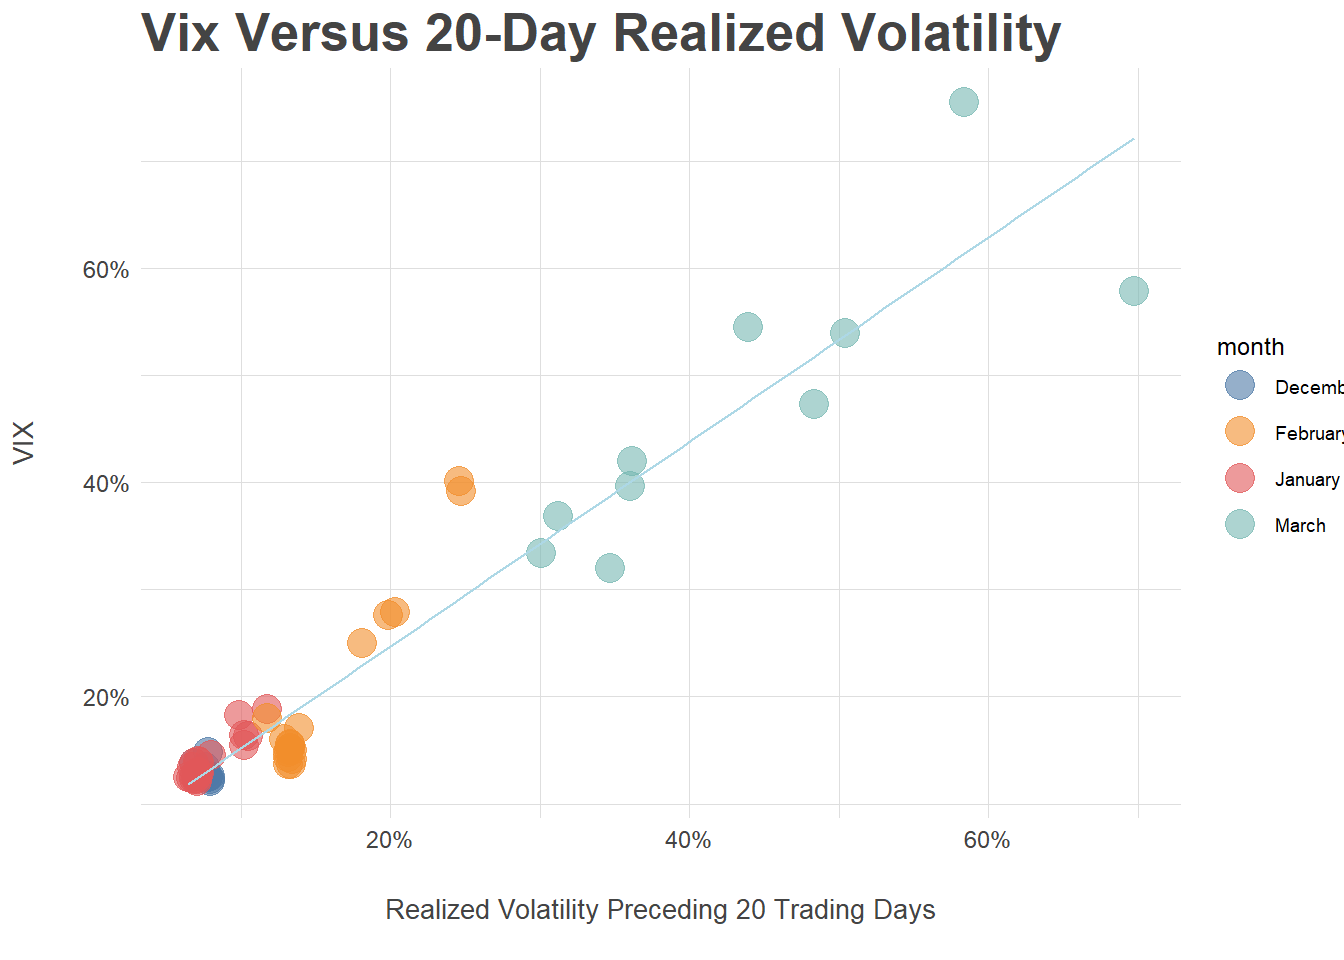
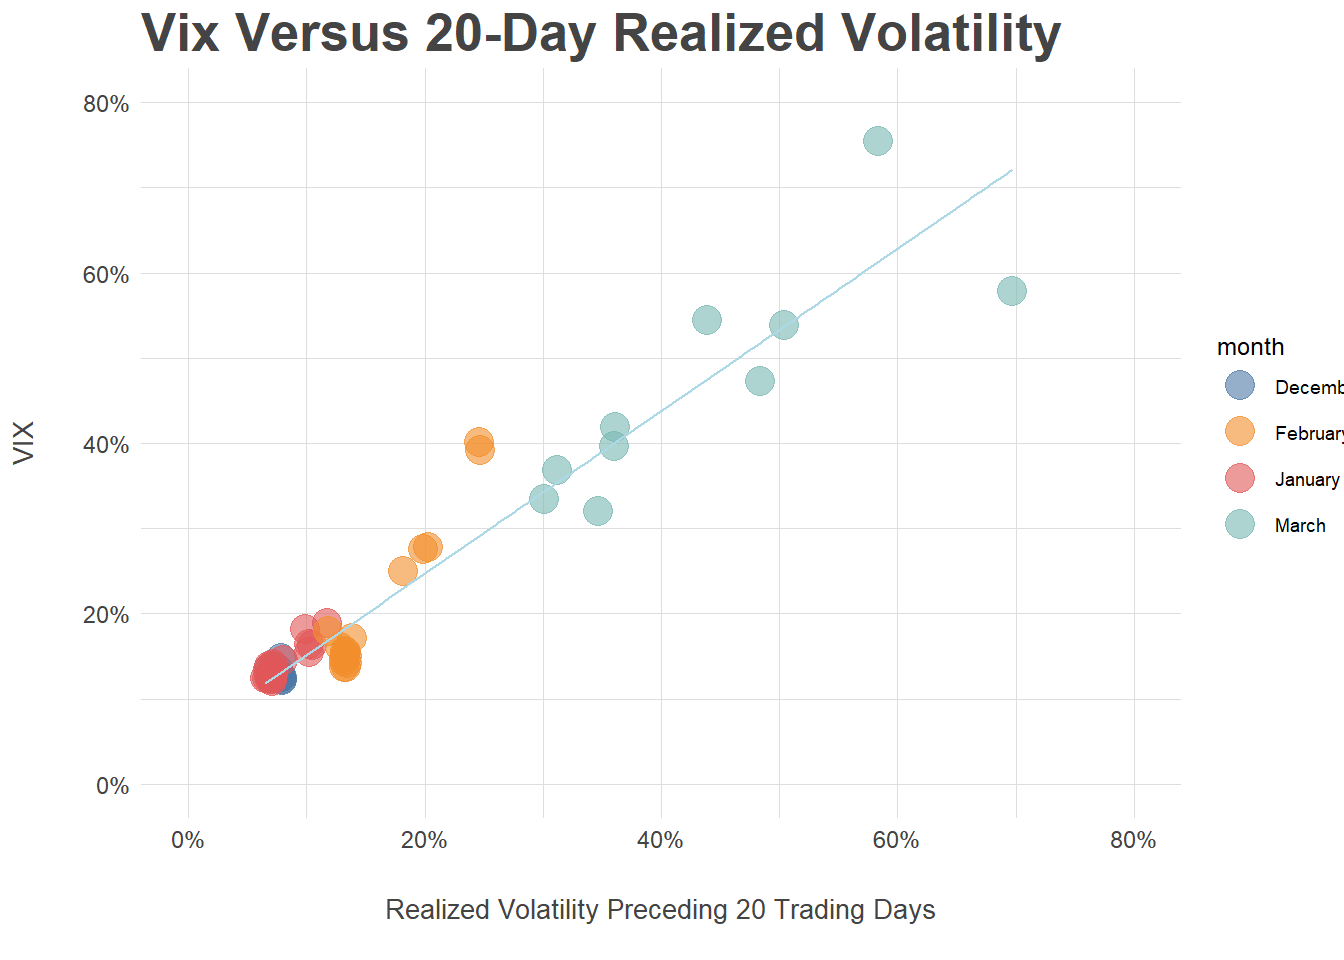
new

diff --git a/public/2020-03-16-test2/index.html b/public/2020-03-16-test2/index.html
@@ -311,15 +311,9 @@ prices_tq = symbols %&gt;%
   geom_point(colour = &quot;#f88379&quot;, alpha = 0.2) +
   geom_smooth(method = &#39;lm&#39;, se = FALSE, color = &quot;light blue&quot;, size = .5) +
   labs(title = &quot;Vix Versus 20-Day Realized Volatility&quot;, x= &quot;Realized Volatility Preceding 20 Trading Days&quot;, y= &quot;VIX&quot;) +
-  ylim(0,80) +
-  xlim(0,80) +
-  scale_y_continuous(labels = function(x){ paste0(x, &quot;%&quot;) }) +
-  scale_x_continuous(labels = function(x){ paste0(x, &quot;%&quot;) }) +
+  scale_y_continuous(limits = c(0,80),labels = function(x){ paste0(x, &quot;%&quot;) }) +
+  scale_x_continuous(limits = c(0,80), labels = function(x){ paste0(x, &quot;%&quot;) }) +
   a_plex_theme() </code></pre>
-<pre><code>## Scale for &#39;y&#39; is already present. Adding another scale for &#39;y&#39;, which will
-## replace the existing scale.</code></pre>
-<pre><code>## Scale for &#39;x&#39; is already present. Adding another scale for &#39;x&#39;, which will
-## replace the existing scale.</code></pre>
 <pre><code>## `geom_smooth()` using formula &#39;y ~ x&#39;</code></pre>
 <p><img src="/post/2020-03-16-test2_files/figure-html/unnamed-chunk-5-1.png" width="672" /></p>
 <p>We’ll see that most of the data points are clustered in the bottom left, with low realized volatility and a low VIX. The rest of the data points start to move up and to the right to very high volatility/VIX figures. It’s pretty likely that these are data points in March as markets have grown more fearful - let’s code our data points by month to provide some more clarity.</p>
@@ -336,15 +330,9 @@ prices_tq = symbols %&gt;%
   scale_color_tableau() +
   geom_smooth(method = &#39;lm&#39;, se = FALSE, color = &quot;light blue&quot;, size = .5) +
   labs(title = &quot;Vix Versus 20-Day Realized Volatility&quot;, x= &quot;Realized Volatility Preceding 20 Trading Days&quot;, y= &quot;VIX&quot;) +
-  ylim(0,80) +
-  xlim(0,80) +
-  scale_y_continuous(labels = function(x){ paste0(x, &quot;%&quot;) }) +
-  scale_x_continuous(labels = function(x){ paste0(x, &quot;%&quot;) }) +
+  scale_y_continuous(limits = c(0,80),labels = function(x){ paste0(x, &quot;%&quot;) }) +
+  scale_x_continuous(limits = c(0,80), labels = function(x){ paste0(x, &quot;%&quot;) }) +
   a_plex_theme() </code></pre>
-<pre><code>## Scale for &#39;y&#39; is already present. Adding another scale for &#39;y&#39;, which will
-## replace the existing scale.</code></pre>
-<pre><code>## Scale for &#39;x&#39; is already present. Adding another scale for &#39;x&#39;, which will
-## replace the existing scale.</code></pre>
 <pre><code>## `geom_smooth()` using formula &#39;y ~ x&#39;</code></pre>
 <p><img src="/post/2020-03-16-test2_files/figure-html/unnamed-chunk-6-1.png" width="672" /></p>
 <p>As we expected, we’re seeing much higher levels of realized volatility and VIX as the year has progressed. Let’s do one final plot and give special attention to our volatile March data by removing our filter and using color.</p>

diff --git a/content/post/2020-03-16-test2.html b/content/post/2020-03-16-test2.html
@@ -47,15 +47,9 @@ prices_tq = symbols %&gt;%
   geom_point(colour = &quot;#f88379&quot;, alpha = 0.2) +
   geom_smooth(method = &#39;lm&#39;, se = FALSE, color = &quot;light blue&quot;, size = .5) +
   labs(title = &quot;Vix Versus 20-Day Realized Volatility&quot;, x= &quot;Realized Volatility Preceding 20 Trading Days&quot;, y= &quot;VIX&quot;) +
-  ylim(0,80) +
-  xlim(0,80) +
-  scale_y_continuous(labels = function(x){ paste0(x, &quot;%&quot;) }) +
-  scale_x_continuous(labels = function(x){ paste0(x, &quot;%&quot;) }) +
+  scale_y_continuous(limits = c(0,80),labels = function(x){ paste0(x, &quot;%&quot;) }) +
+  scale_x_continuous(limits = c(0,80), labels = function(x){ paste0(x, &quot;%&quot;) }) +
   a_plex_theme() </code></pre>
-<pre><code>## Scale for &#39;y&#39; is already present. Adding another scale for &#39;y&#39;, which will
-## replace the existing scale.</code></pre>
-<pre><code>## Scale for &#39;x&#39; is already present. Adding another scale for &#39;x&#39;, which will
-## replace the existing scale.</code></pre>
 <pre><code>## `geom_smooth()` using formula &#39;y ~ x&#39;</code></pre>
 <p><img src="/post/2020-03-16-test2_files/figure-html/unnamed-chunk-5-1.png" width="672" /></p>
 <p>We’ll see that most of the data points are clustered in the bottom left, with low realized volatility and a low VIX. The rest of the data points start to move up and to the right to very high volatility/VIX figures. It’s pretty likely that these are data points in March as markets have grown more fearful - let’s code our data points by month to provide some more clarity.</p>
@@ -72,15 +66,9 @@ prices_tq = symbols %&gt;%
   scale_color_tableau() +
   geom_smooth(method = &#39;lm&#39;, se = FALSE, color = &quot;light blue&quot;, size = .5) +
   labs(title = &quot;Vix Versus 20-Day Realized Volatility&quot;, x= &quot;Realized Volatility Preceding 20 Trading Days&quot;, y= &quot;VIX&quot;) +
-  ylim(0,80) +
-  xlim(0,80) +
-  scale_y_continuous(labels = function(x){ paste0(x, &quot;%&quot;) }) +
-  scale_x_continuous(labels = function(x){ paste0(x, &quot;%&quot;) }) +
+  scale_y_continuous(limits = c(0,80),labels = function(x){ paste0(x, &quot;%&quot;) }) +
+  scale_x_continuous(limits = c(0,80), labels = function(x){ paste0(x, &quot;%&quot;) }) +
   a_plex_theme() </code></pre>
-<pre><code>## Scale for &#39;y&#39; is already present. Adding another scale for &#39;y&#39;, which will
-## replace the existing scale.</code></pre>
-<pre><code>## Scale for &#39;x&#39; is already present. Adding another scale for &#39;x&#39;, which will
-## replace the existing scale.</code></pre>
 <pre><code>## `geom_smooth()` using formula &#39;y ~ x&#39;</code></pre>
 <p><img src="/post/2020-03-16-test2_files/figure-html/unnamed-chunk-6-1.png" width="672" /></p>
 <p>As we expected, we’re seeing much higher levels of realized volatility and VIX as the year has progressed. Let’s do one final plot and give special attention to our volatile March data by removing our filter and using color.</p>
